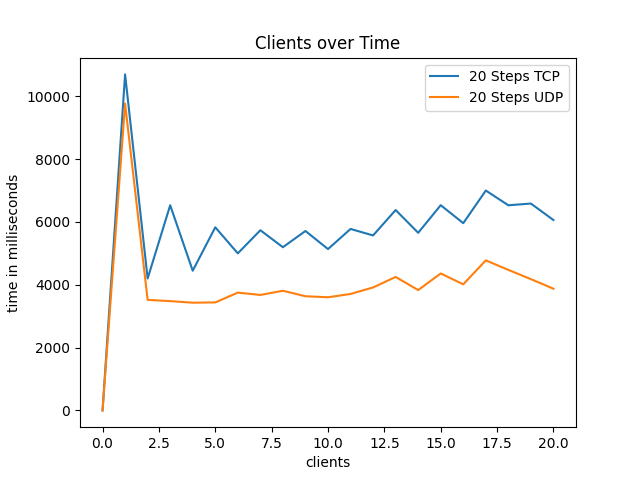
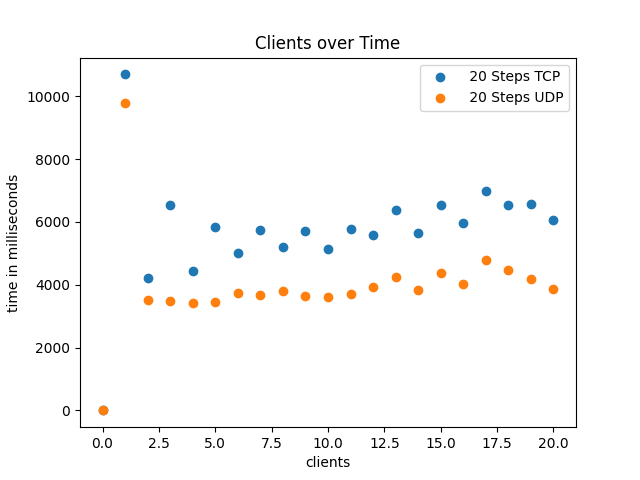
better plotting done

diff --git a/python/src/plotter.py b/python/src/plotter.py
@@ -22,16 +22,18 @@ def extractCSV(path):
         if not (row[0].startswith("#")):
             if not foundHeader:
                 header = row
+                foundHeader = True
             else:
                 xValues.append(row[0])
                 yValues.append(row[1])
     
-    if (header[0] == "id"):
+    if (header[0] == "header"):
         id = int(header[1])
+        label = header[2]
 
     file.close()
 
-    return id, xValues, yValues
+    return id, label, xValues, yValues
 
 
 def makeMedian(xValues, yValues):
@@ -67,31 +69,11 @@ def makeMedian(xValues, yValues):
 #############################################
 #############################################
 
-stepsOverTimeLabel = [
-    'Local',
-    '1 Client TCP',
-    '1 Client UDP',
-    '10 Client TCP',
-    '10 Client UDP',
-    '20 Client TCP',
-    '20 Client UDP',
+titlesAndAxisLabels = [
+    ['Steps over Time', 'steps', 'time in milliseconds'],           # id = 0
+    ['Clients over Time', 'clients', 'time in milliseconds']        # id = 1
+    # elif id == 2: # TODO erweiterung
 ]
-
-
-clientsOverTimePath = [ 
-    'csv/clients-over-time/clients_over_time_server-20-steps-1to20-clients-tcp.csv',
-    'csv/clients-over-time/clients_over_time_server-20-steps-1to20-clients-udp.csv'
-]
-
-clientsOverTimeLabel = [
-    '20 Steps TCP',
-    '20 Steps UDP'
-]
-
-
-graphLabels = [['steps'  , 'time in milliseconds'],
-               ['clients', 'time in milliseconds']]
-
 
 #############################################
 #############################################
@@ -102,41 +84,60 @@ print("start")
 
 # plots steps over time
 SoT = plt.figure('Steps over Time')
-plt.figure(SoT)
+plt.title(titlesAndAxisLabels[0][0])
+plt.xlabel(titlesAndAxisLabels[0][1])
+plt.ylabel(titlesAndAxisLabels[0][2])   
 
-for i in range(len(stepsOverTimePath)):
-    id, xValues, yValues = extractCSV(stepsOverTimePath[i])
-
-    xMedian, yMedian = makeMedian(xValues, yValues)
-
-    plt.plot(xMedian, yMedian, label=stepsOverTimeLabel[i])
-    #plt.scatter(xMedian,yMedian)
-
-plt.xlabel(graphLabels[0][0])
-plt.ylabel(graphLabels[0][1])    
-plt.title('Steps over Time')
-plt.legend()
-SoT.savefig('fig/steps-over-time.png')
 
 
 # plots clients over time
 CoT = plt.figure('Clients over Time')
-plt.figure(CoT)
+plt.title(titlesAndAxisLabels[1][0])
+plt.xlabel(titlesAndAxisLabels[1][1])
+plt.ylabel(titlesAndAxisLabels[1][2])
 
-for i in range(len(clientsOverTimePath)):
-    id, xValues, yValues = extractCSV(clientsOverTimePath[i])
+
+
+# elif id == 2: # TODO erweiterung
+
+
+
+for path in getAllFiles():
+    id, label, xValues, yValues = extractCSV(path)
 
     xMedian, yMedian = makeMedian(xValues, yValues)
 
-    plt.plot(xMedian, yMedian, label=clientsOverTimeLabel[i])
-    #plt.scatter(xMedian,yMedian)
+    if id == 0: # steps over time
+        plt.figure(SoT)
+        plt.plot(xMedian, yMedian, label=label)
+    
+    
+    
+    elif id == 1: # clients over time
+        plt.figure(CoT)
+        plt.scatter(xMedian, yMedian, label=label)
 
-plt.xlabel(graphLabels[1][0])
-plt.ylabel(graphLabels[1][1])    
-plt.title('Clients over Time')
+    # elif id == 2: # TODO erweiterung
+
+
+# legende setzen
+plt.figure(SoT)
 plt.legend()
+
+
+plt.figure(CoT)
+plt.legend()
+
+# elif id == 2: # TODO erweiterung
+
+
+# save plots
+SoT.savefig('python/src/fig/steps-over-time.png')
+CoT.savefig('python/src/fig/clients-over-time.png')
+# elif id == 2: # TODO erweiterung
+
 plt.show()
-CoT.savefig('fig/clients-over-time.png')
+
 
 print("finished")
 
